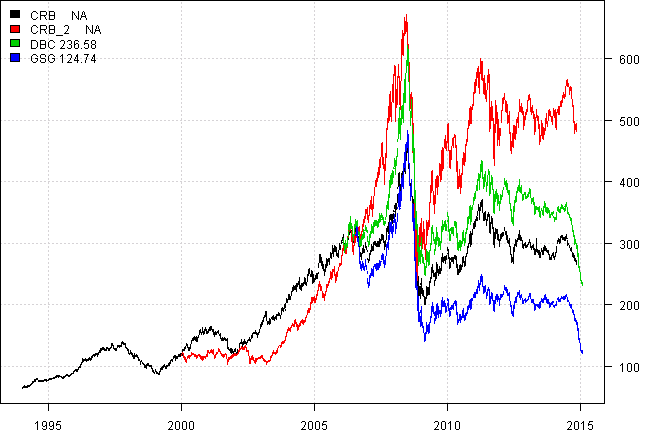
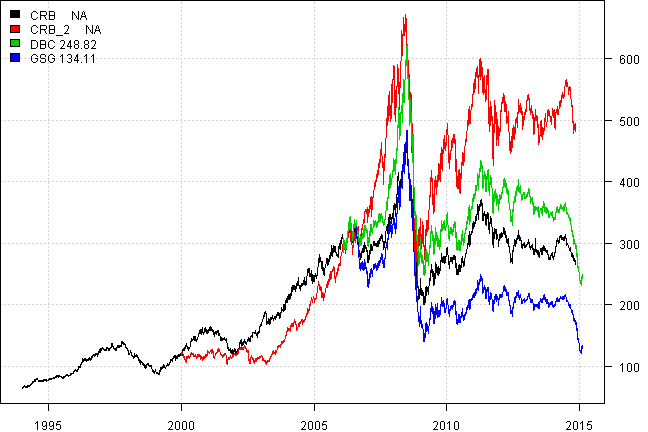
update blog post

diff --git a/_posts/2014-11-14-Data-Proxy.md b/_posts/2014-11-14-Data-Proxy.md
@@ -128,8 +128,8 @@ On the all history chart CRB_2 is also different.
 
 |      |CRB Price |CRB Total |CRB_2 Price |CRB_2 Total |DBC Price |DBC Total |GSG Price |GSG Total |
 |:-----|:---------|:---------|:-----------|:-----------|:---------|:---------|:---------|:---------|
-|Mean  | 8.2%     | 8.2%     |11.5%       |11.5%       |-0.8%     |-0.8%     |-7.6%     |-7.6%     |
-|StDev |16.3%     |16.3%     |21.5%       |21.5%       |20.9%     |20.9%     |24.9%     |24.9%     |
+|Mean  | 8.2%     | 8.2%     |11.5%       |11.5%       |-0.2%     |-0.2%     |-6.7%     |-6.7%     |
+|StDev |16.3%     |16.3%     |21.5%       |21.5%       |20.9%     |20.9%     |25.0%     |25.0%     |
     
 
 Quick glance at historical time series does not show anything abnormal between Price and Adjusted Price series. 
@@ -170,7 +170,7 @@ create.proxy = function(tickers, proxy.map.tickers, raw.data = new.env()) {
     tickers = spl(tickers)
     data = new.env()
     
-	getSymbols.extra(tickers, src = 'yahoo', from = '1970-01-01', env = data, raw.data = raw.data, auto.assign = T)    
+    getSymbols.extra(tickers, src = 'yahoo', from = '1970-01-01', env = data, raw.data = raw.data, auto.assign = T)    
         for(i in ls(data)) data[[i]] = adjustOHLC(data[[i]], use.Adjusted=T)
                          
     #*****************************************************************
@@ -197,7 +197,7 @@ create.proxy = function(tickers, proxy.map.tickers, raw.data = new.env()) {
 |      |Start      |
 |:-----|:----------|
 |VGSIX |1996-06-28 |
-|VNQ   |2004-10-01 |
+|VNQ   |2004-09-29 |
 |RWX   |2007-03-02 |
     
 
@@ -209,8 +209,8 @@ create.proxy = function(tickers, proxy.map.tickers, raw.data = new.env()) {
 |RWX   |      |66%   |67%   |
 |VGSIX |      |      |99%   |
 |      |      |      |      |
-|Mean  | 3.2% |13.0% |13.3% |
-|StDev |25.5% |40.5% |39.3% |
+|Mean  | 3.6% |12.8% |13.0% |
+|StDev |25.5% |40.4% |39.3% |
     
 
 
@@ -218,7 +218,7 @@ create.proxy = function(tickers, proxy.map.tickers, raw.data = new.env()) {
 
 |      |RWX Price |RWX Total |VGSIX Price |VGSIX Total |VNQ Price |VNQ Total |
 |:-----|:---------|:---------|:-----------|:-----------|:---------|:---------|
-|Mean  | 3.2%     | 3.2%     |14.6%       |14.6%       |16.0%     |16.0%     |
+|Mean  | 3.6%     | 3.6%     |14.5%       |14.5%       |16.0%     |16.0%     |
 |StDev |25.5%     |25.5%     |28.2%       |28.2%       |35.2%     |35.2%     |
     
 
@@ -260,8 +260,8 @@ Please use `VNQ` and `VGSIX` to extend REIT ex-U.S.
 |IYR   |      |85%   |99%   |
 |RWO   |      |      |85%   |
 |      |      |      |      |
-|Mean  |14.7% | 9.2% |16.8% |
-|StDev |39.2% |30.0% |42.1% |
+|Mean  |14.5% | 9.2% |16.4% |
+|StDev |39.1% |29.9% |42.0% |
     
 
 
@@ -269,8 +269,8 @@ Please use `VNQ` and `VGSIX` to extend REIT ex-U.S.
 
 |      |IYR Price |IYR Total |RWO Price |RWO Total |VGSIX Price |VGSIX Total |
 |:-----|:---------|:---------|:---------|:---------|:-----------|:-----------|
-|Mean  |14.7%     |14.7%     | 9.2%     | 9.2%     |14.6%       |14.6%       |
-|StDev |29.6%     |29.6%     |30.0%     |30.0%     |28.2%       |28.2%       |
+|Mean  |14.6%     |14.6%     | 9.2%     | 9.2%     |14.5%       |14.5%       |
+|StDev |29.6%     |29.6%     |29.9%     |29.9%     |28.2%       |28.2%       |
     
 
 
@@ -349,8 +349,8 @@ Please use `IYR` and `VGSIX` to extend Global REIT.
 	#compute.raw.annual.factor(TB3Y)
 	raw.data$TB3Y = make.stock.xts(processTBill(TB3Y, timetomaturity = 3, 261))
 	#--------------------------------   
-	
-	create.proxy('SHY,TB3Y', 'SHY, SHY.TB3Y=SHY+TB3Y', raw.data)	
+
+	create.proxy('SHY,TB3Y', 'SHY, SHY.TB3Y=SHY+TB3Y', raw.data)
 {% endhighlight %}
 
 
@@ -383,6 +383,211 @@ Please use `IYR` and `VGSIX` to extend Global REIT.
 
 
 ![plot of chunk plot-11](/public/images/2014-11-14-Data-Proxy/plot-11-8.png) 
+
+{% highlight r %}
+	#--------------------------------   
+	# load 10 years t-bill from FRED (BIL)
+	filename = 'data/TB10Y.Rdata'
+	if(!file.exists(filename)) {
+		TB10Y = quantmod::getSymbols('DGS10', src='FRED', auto.assign = FALSE)
+		save(TB10Y, file=filename)
+	}
+	load(file=filename)
+	TB10Y[] = ifna.prev(TB10Y)
+	#compute.raw.annual.factor(TB10Y)
+	raw.data$TB10Y = make.stock.xts(processTBill(TB10Y, timetomaturity = 10, 261))
+	#--------------------------------   
+
+	create.proxy('IEF,VFITX,TB10Y', 'IEF, IEF.VFITX=IEF+VFITX, IEF.VFITX.TB10Y=IEF+VFITX+TB10Y', raw.data)
+{% endhighlight %}
+
+
+
+|      |Start      |
+|:-----|:----------|
+|TB10Y |1962-01-02 |
+|VFITX |1996-06-20 |
+|IEF   |2002-07-30 |
+    
+
+
+![plot of chunk plot-11](/public/images/2014-11-14-Data-Proxy/plot-11-9.png) 
+
+|      |IEF  |TB10Y |VFITX |
+|:-----|:----|:-----|:-----|
+|IEF   |     |96%   |93%   |
+|TB10Y |     |      |92%   |
+|      |     |      |      |
+|Mean  |6.0% |5.9%  |4.7%  |
+|StDev |7.0% |9.4%  |5.1%  |
+    
+
+
+![plot of chunk plot-11](/public/images/2014-11-14-Data-Proxy/plot-11-10.png) ![plot of chunk plot-11](/public/images/2014-11-14-Data-Proxy/plot-11-11.png) 
+
+|      |IEF Price |IEF Total |TB10Y Price |TB10Y Total |VFITX Price |VFITX Total |
+|:-----|:---------|:---------|:-----------|:-----------|:-----------|:-----------|
+|Mean  |6.0%      |6.0%      |6.8%        |6.8%        |5.8%        |5.8%        |
+|StDev |7.0%      |7.0%      |9.6%        |9.6%        |5.2%        |5.2%        |
+    
+
+
+![plot of chunk plot-11](/public/images/2014-11-14-Data-Proxy/plot-11-12.png) 
+
+{% highlight r %}
+	#--------------------------------   
+	# load 20 years t-bill from FRED (BIL)
+	filename = 'data/TB20Y.Rdata'
+	if(!file.exists(filename)) {
+		TB20Y = quantmod::getSymbols('GS20', src='FRED', auto.assign = FALSE)
+		save(TB20Y, file=filename)
+	}
+	load(file=filename)
+  print(TB20Y[is.na(TB20Y)])
+{% endhighlight %}
+
+
+
+|           | GS20|
+|:----------|----:|
+|1987-01-01 |     |
+|1987-02-01 |     |
+|1987-03-01 |     |
+|1987-04-01 |     |
+|1987-05-01 |     |
+|1987-06-01 |     |
+|1987-07-01 |     |
+|1987-08-01 |     |
+|1987-09-01 |     |
+|1987-10-01 |     |
+|1987-11-01 |     |
+|1987-12-01 |     |
+|1988-01-01 |     |
+|1988-02-01 |     |
+|1988-03-01 |     |
+|1988-04-01 |     |
+|1988-05-01 |     |
+|1988-06-01 |     |
+|1988-07-01 |     |
+|1988-08-01 |     |
+|1988-09-01 |     |
+|1988-10-01 |     |
+|1988-11-01 |     |
+|1988-12-01 |     |
+|1989-01-01 |     |
+|1989-02-01 |     |
+|1989-03-01 |     |
+|1989-04-01 |     |
+|1989-05-01 |     |
+|1989-06-01 |     |
+|1989-07-01 |     |
+|1989-08-01 |     |
+|1989-09-01 |     |
+|1989-10-01 |     |
+|1989-11-01 |     |
+|1989-12-01 |     |
+|1990-01-01 |     |
+|1990-02-01 |     |
+|1990-03-01 |     |
+|1990-04-01 |     |
+|1990-05-01 |     |
+|1990-06-01 |     |
+|1990-07-01 |     |
+|1990-08-01 |     |
+|1990-09-01 |     |
+|1990-10-01 |     |
+|1990-11-01 |     |
+|1990-12-01 |     |
+|1991-01-01 |     |
+|1991-02-01 |     |
+|1991-03-01 |     |
+|1991-04-01 |     |
+|1991-05-01 |     |
+|1991-06-01 |     |
+|1991-07-01 |     |
+|1991-08-01 |     |
+|1991-09-01 |     |
+|1991-10-01 |     |
+|1991-11-01 |     |
+|1991-12-01 |     |
+|1992-01-01 |     |
+|1992-02-01 |     |
+|1992-03-01 |     |
+|1992-04-01 |     |
+|1992-05-01 |     |
+|1992-06-01 |     |
+|1992-07-01 |     |
+|1992-08-01 |     |
+|1992-09-01 |     |
+|1992-10-01 |     |
+|1992-11-01 |     |
+|1992-12-01 |     |
+|1993-01-01 |     |
+|1993-02-01 |     |
+|1993-03-01 |     |
+|1993-04-01 |     |
+|1993-05-01 |     |
+|1993-06-01 |     |
+|1993-07-01 |     |
+|1993-08-01 |     |
+|1993-09-01 |     |
+    
+
+
+
+
+{% highlight r %}
+	TB20Y[] = ifna.prev(TB20Y)
+  # alternative, linear approximate missing data
+  #TB20Y[] = approx(1:nrow(TB20Y), as.vector(TB20Y), 1:nrow(TB20Y), method='linear')$y  
+  
+	#compute.raw.annual.factor(TB10Y)
+	raw.data$TB20Y = make.stock.xts(processTBill(TB20Y, timetomaturity = 20, 12))
+	#--------------------------------   
+
+	create.proxy('TLT,VUSTX,TB20Y', 'TLT, TLT.VUSTX=TLT+VUSTX, TLT.VUSTX.TB20Y=TLT+VUSTX+TB20Y', raw.data)
+{% endhighlight %}
+
+
+
+|      |Start      |
+|:-----|:----------|
+|TB20Y |1953-04-01 |
+|VUSTX |1989-12-14 |
+|TLT   |2002-07-30 |
+    
+
+
+![plot of chunk plot-11](/public/images/2014-11-14-Data-Proxy/plot-11-13.png) 
+
+|      |TB20Y  |TLT    |VUSTX  |
+|:-----|:------|:------|:------|
+|TB20Y |       |76%    |71%    |
+|TLT   |       |       |99%    |
+|      |       |       |       |
+|Mean  |313.3% |267.3% |244.5% |
+|StDev | 90.2% | 74.2% | 61.2% |
+    
+
+
+![plot of chunk plot-11](/public/images/2014-11-14-Data-Proxy/plot-11-14.png) ![plot of chunk plot-11](/public/images/2014-11-14-Data-Proxy/plot-11-15.png) 
+
+|      |TB20Y Price |TB20Y Total |TLT Price |TLT Total |VUSTX Price |VUSTX Total |
+|:-----|:-----------|:-----------|:---------|:---------|:-----------|:-----------|
+|Mean  |155.4%      |155.4%      |  8.6%    |  8.6%    |  8.3%      |  8.3%      |
+|StDev | 70.3%      | 70.3%      | 13.8%    | 13.8%    | 10.5%      | 10.5%      |
+    
+
+
+![plot of chunk plot-11](/public/images/2014-11-14-Data-Proxy/plot-11-16.png) 
+
+Please note, there are missing observations in GS20 from 1987 to 1993, but VUSTX only begins
+in Dec 1989. Hence, the overlap is missing 3 years of observations: 1987, 1988, 1989.
+In this years we assumed that GS20 was constant at 7.28 as reported in 1986-12-01 7.28.
+
+Another problem with monthly data is the date used to record each observation. These
+are most likely month-end observations, but they are recorded as the first day of the month.
+
 </div>
 
 
@@ -429,7 +634,7 @@ Please use `IYR` and `VGSIX` to extend Global REIT.
 
 |      |GLD Price |GLD Total |GOLD Price |GOLD Total |
 |:-----|:---------|:---------|:----------|:----------|
-|Mean  |12.1%     |12.1%     | 9.4%      | 9.4%      |
+|Mean  |11.6%     |11.6%     | 9.4%      | 9.4%      |
 |StDev |20.3%     |20.3%     |20.1%      |20.1%      |
     
 
@@ -542,4 +747,15 @@ print(bt.start.dates(data))
     
 
 
-*(this report was produced on: 2015-02-02)*
+
+
+
+
+
+
+
+
+
+
+
+*(this report was produced on: 2015-02-14)*
